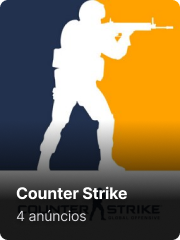
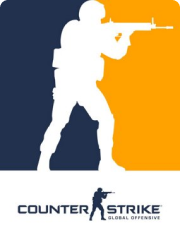
all home, without api connection

diff --git a/src/App.tsx b/src/App.tsx
@@ -1,5 +1,6 @@
 import './styles/main.css';
-import logo from './assets/logo-nlw-esports.svg'
+import logo from './assets/logo-nlw-esports.svg';
+import { MagnifyingGlassPlus } from 'phosphor-react';
 
 function App() {
   return (
@@ -11,24 +12,68 @@ function App() {
       </h1>
 
       <div className='grid grid-cols-6 gap-6 mt-16'>
-        <a href="">
+        <a href="" className="relative rounded-lg overflow-hidden">
           <img src="game-1.png" alt=""/>
+          
+          <div className='w-full pt-16 pb-4 px-4 bg-game-box-gradient absolute bottom-0 left-0 right-0'>
+            <strong className='font-bold text-white block'>League of Legends</strong>
+            <span className='text-zinc-300 text-sm block mt-1'>4 anúncios</span>
+          </div>
         </a>
-        <a href="">
+        <a href="" className="relative rounded-lg overflow-hidden">
           <img src="game-2.png" alt=""/>
+          
+          <div className='w-full pt-16 pb-4 px-4 bg-game-box-gradient absolute bottom-0 left-0 right-0'>
+            <strong className='font-bold text-white block'>Apex Legends</strong>
+            <span className='text-zinc-300 text-sm block mt-1'>4 anúncios</span>
+          </div>
         </a>
-        <a href="">
+        <a href="" className="relative rounded-lg overflow-hidden">
           <img src="game-3.png" alt=""/>
+          
+          <div className='w-full pt-16 pb-4 px-4 bg-game-box-gradient absolute bottom-0 left-0 right-0'>
+            <strong className='font-bold text-white block'>Counter Strike</strong>
+            <span className='text-zinc-300 text-sm block mt-1'>4 anúncios</span>
+          </div>
         </a>
-        <a href="">
+        <a href="" className="relative rounded-lg overflow-hidden">
           <img src="game-4.png" alt=""/>
+          
+          <div className='w-full pt-16 pb-4 px-4 bg-game-box-gradient absolute bottom-0 left-0 right-0'>
+            <strong className='font-bold text-white block'>World of Warcraft</strong>
+            <span className='text-zinc-300 text-sm block mt-1'>4 anúncios</span>
+          </div>
         </a>
-        <a href="">
+        <a href="" className="relative rounded-lg overflow-hidden">
           <img src="game-5.png" alt=""/>
+          
+          <div className='w-full pt-16 pb-4 px-4 bg-game-box-gradient absolute bottom-0 left-0 right-0'>
+            <strong className='font-bold text-white block'>Dota 2</strong>
+            <span className='text-zinc-300 text-sm block mt-1'>4 anúncios</span>
+          </div>
         </a>
-        <a href="">
+        <a href="" className="relative rounded-lg overflow-hidden">
           <img src="game-6.png" alt=""/>
+          
+          <div className='w-full pt-16 pb-4 px-4 bg-game-box-gradient absolute bottom-0 left-0 right-0'>
+            <strong className='font-bold text-white block'>Fortnite</strong>
+            <span className='text-zinc-300 text-sm block mt-1'>4 anúncios</span>
+          </div>
         </a>
+      </div>
+
+      <div className='pt-1 bg-nlw-gradient rounded-lg self-stretch mt-8 overflow-hidden'>
+        <div className='bg-[#2A2634] px-8 py-6 flex justify-between items-center'>
+          <div>
+            <strong className='text-2xl text-white block'>Não encontrou o seu duo?</strong>
+            <span className='text-zinc-400 block'>Publique um anúncio para encontrar novos players!</span>
+          </div>
+
+          <button className='bg-violet-500 rounded-md text-base py-3 px-4 text-white hover:bg-violet-700 flex items-center gap-3'>
+            <MagnifyingGlassPlus size={24}/>
+            Publicar anúncio
+          </button>
+        </div>
       </div>
     </div>
   )

diff --git a/index.html b/index.html
@@ -2,8 +2,15 @@
 <html lang="en">
   <head>
     <meta charset="UTF-8" />
+
+    <link rel="preconnect" href="https://fonts.googleapis.com">
+    <link rel="preconnect" href="https://fonts.gstatic.com" crossorigin>
+    
     <link rel="icon" type="image/svg+xml" href="/vite.svg" />
     <meta name="viewport" content="width=device-width, initial-scale=1.0" />
+
+    <link href="https://fonts.googleapis.com/css2?family=Inter:wght@400;700;900&display=swap" rel="stylesheet">
+
     <title>Vite + React + TS</title>
   </head>
   <!-- neste arquivo só colocamos estilizações do body que queremos que se repita para todas as páginas -->
